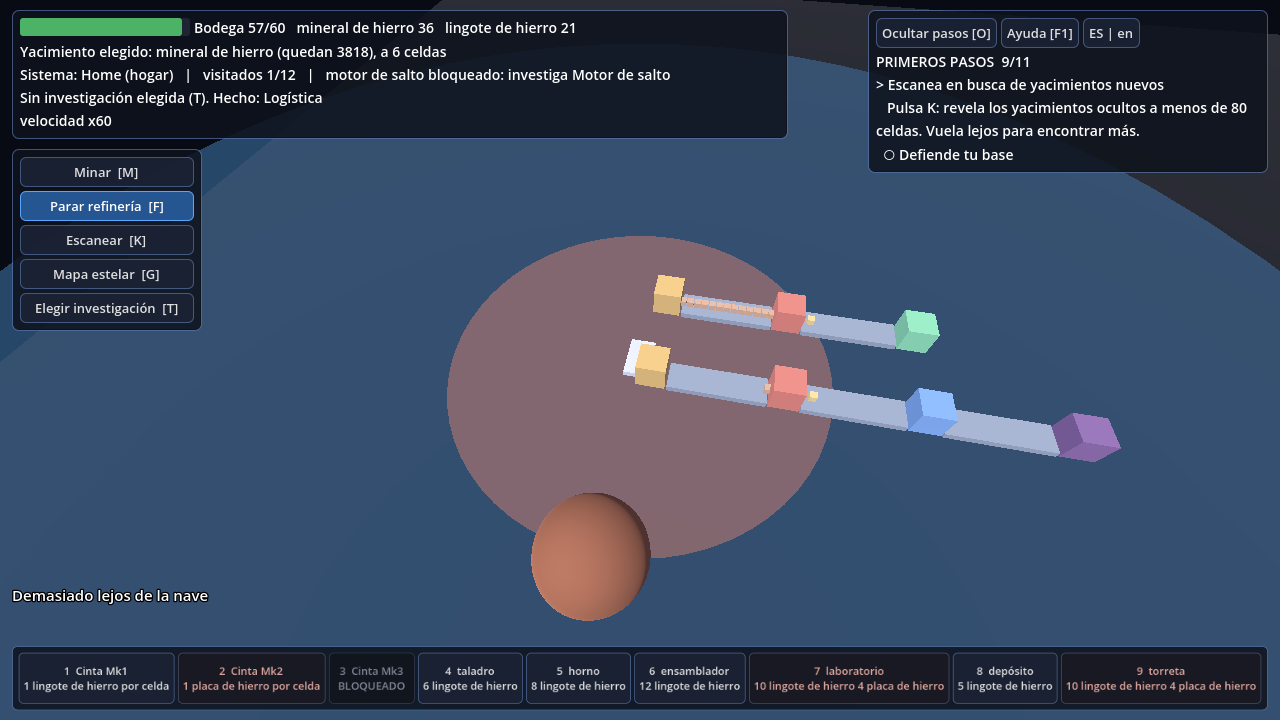
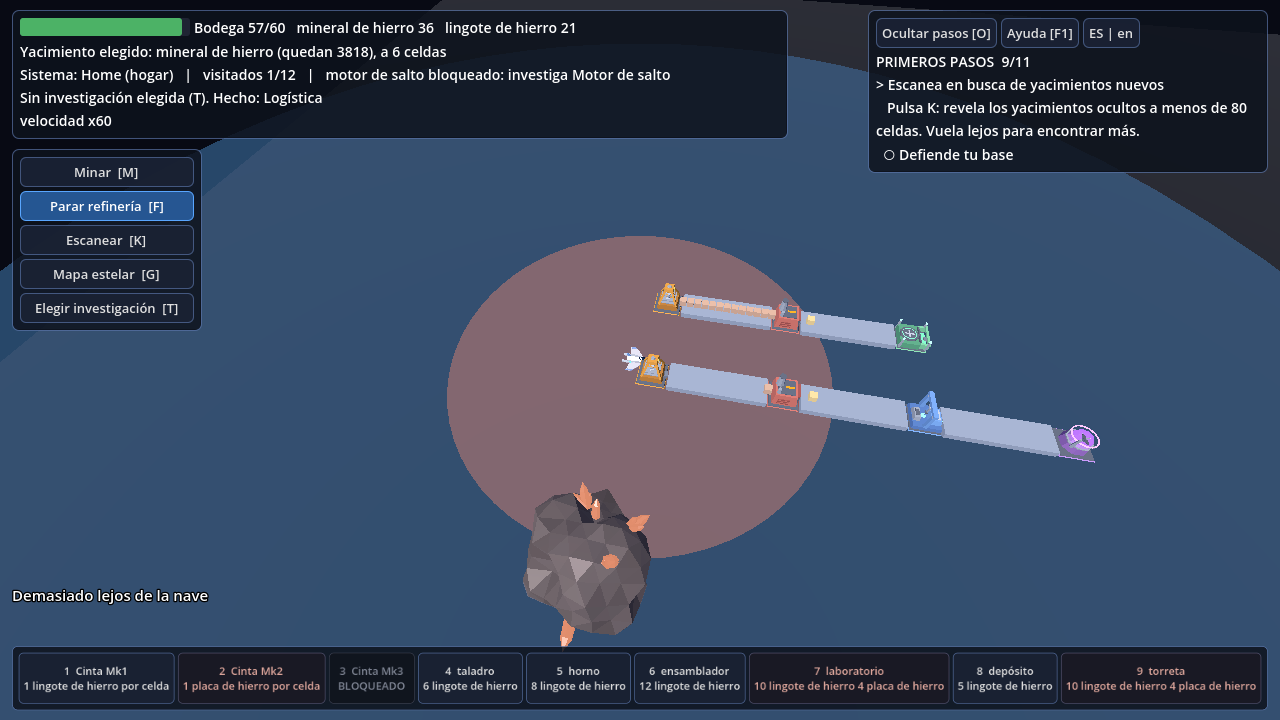
feat(game): render machines, ship, enemies and deposits with the 3D models
Replace the box MultiMeshes with per-instance model nodes with animation, damage tint, turret aiming and ship heading; add model screenshots to the polish doc.

diff --git a/game/Play.cs b/game/Play.cs
@@ -37,17 +37,18 @@ public partial class Play : Node3D
     private Camera3D _camera = null!;
     private float _yaw = 0.2f, _distance = 15f;
     private Vector3 _target = new(7f, 0f, 2f);
-    private MultiMeshInstance3D? _slabNode, _itemNode, _machineNode;
+    private MultiMeshInstance3D? _slabNode, _itemNode;
     private MultiMesh _items = null!;
-    private MultiMesh? _machines;
+    private Node3D? _machineRoot;
+    private readonly Dictionary<int, Node3D> _machineModels = new();
+    private double _animTime;
     private float[] _itemBuf = Array.Empty<float>();
-    private float[] _machineBuf = Array.Empty<float>();
     private ItemSample[] _samples = Array.Empty<ItemSample>();
     private int _sampleCount;
     private int[] _machineIds = Array.Empty<int>();
     private (float Ox, float Oy, float Oz, float Dx, float Dy, float Dz, int Length, int Speed)[] _segs = Array.Empty<(float, float, float, float, float, float, int, int)>();
     private int _structureVersion = -1;
-    private readonly List<MeshInstance3D> _depositNodes = new();
+    private readonly List<Node3D> _depositNodes = new();
     private MeshInstance3D _ghost = null!, _dragGhost = null!;
 
     // Interaction
@@ -157,22 +158,14 @@ public partial class Play : Node3D
         {
             var color = Net.DepositItem(d) == _content.ItemIndex("core:iron_ore") ? new Color(0.65f, 0.4f, 0.3f) : new Color(0.25f, 0.25f, 0.28f);
             var (dx, dy, dz) = Net.DepositPosition(d);
-            var n = new MeshInstance3D
-            {
-                Mesh = new SphereMesh { Radius = 1.5f, Height = 3f },
-                MaterialOverride = new StandardMaterial3D { AlbedoColor = color, Roughness = 0.9f },
-                Position = new Vector3(dx, dy, dz),
-            };
+            var n = Models.Deposit(color, d);
+            n.Position = new Vector3(dx, dy, dz);
             AddChild(n);
             _depositNodes.Add(n);
         }
 
         // The ship, with discs showing where it can build (big) and mine (small).
-        _ship = new MeshInstance3D
-        {
-            Mesh = new BoxMesh { Size = new Vector3(0.8f, 0.35f, 1.3f) },
-            MaterialOverride = new StandardMaterial3D { AlbedoColor = new Color(0.9f, 0.9f, 0.95f), Roughness = 0.4f },
-        };
+        _ship = Models.Ship();
         AddChild(_ship);
         _buildRange = RangeDisc(PlayerRules.BuildRangeCells, new Color(0.4f, 0.7f, 1f, 0.07f));
         _mineRange = RangeDisc(PlayerRules.MineRangeCells, new Color(1f, 0.6f, 0.2f, 0.12f));
@@ -208,6 +201,17 @@ public partial class Play : Node3D
     private void UpdateShip(float alpha, float dt)
     {
         var pos = ShipPosition(_demo ? 0f : alpha);
+        // The nose points where the ship is heading; it eases round and holds its heading while parked.
+        if (Net.HasPlayer(Player))
+        {
+            var pi = Net.GetPlayerInfo(Player);
+            if (pi.MoveX != 0 || pi.MoveZ != 0)
+                _shipYaw = Mathf.LerpAngle(_shipYaw, MathF.Atan2(-pi.MoveZ, pi.MoveX), 1f - MathF.Exp(-10f * dt));
+            bool thrusting = pi.MoveX != 0 || pi.MoveY != 0 || pi.MoveZ != 0;
+            Models.Animate(_ship, _animTime, thrusting);
+            Models.SetDamage(_ship, 0f);
+        }
+        _ship.Rotation = new Vector3(0, _shipYaw, 0);
         _ship.Position = pos;
         _ship.Visible = !(Net.HasPlayer(Player) && Net.GetPlayerInfo(Player).RespawnRemaining > 0); // hidden while being rebuilt
         _buildRange.Position = pos;
@@ -218,7 +222,9 @@ public partial class Play : Node3D
         UpdateShipControl();
     }
 
-    private MeshInstance3D _ship = null!, _buildRange = null!, _mineRange = null!;
+    private Node3D _ship = null!;
+    private MeshInstance3D _buildRange = null!, _mineRange = null!;
+    private float _shipYaw;
     private (int X, int Y, int Z) _lastIntent;
 
     private void PlaceCamera()
@@ -248,7 +254,7 @@ public partial class Play : Node3D
     {
         _slabNode?.QueueFree();
         _itemNode?.QueueFree();
-        _machineNode?.QueueFree();
+        _machineRoot?.QueueFree();
 
         _segs = new (float, float, float, float, float, float, int, int)[Net.SegmentIdLimit];
         var alive = new List<int>();
@@ -294,56 +300,52 @@ public partial class Play : Node3D
         AddChild(_itemNode);
 
         _machineIds = Enumerable.Range(0, Net.MachineIdLimit).Where(Net.IsMachineAlive).ToArray();
-        _machines = new MultiMesh
+        _machineRoot = new Node3D();
+        AddChild(_machineRoot);
+        _machineModels.Clear();
+        foreach (int id in _machineIds)
         {
-            TransformFormat = MultiMesh.TransformFormatEnum.Transform3D, UseColors = true,
-            Mesh = new BoxMesh { Size = Vector3.One, Material = VertexMaterial() }, InstanceCount = _machineIds.Length,
-        };
-        _machineBuf = new float[_machineIds.Length * FloatsPerItem];
-        _machineNode = new MultiMeshInstance3D { Multimesh = _machines };
-        AddChild(_machineNode);
+            var m = Net.GetMachineInfo(id);
+            var model = Models.Machine(_content.Machines[m.Type].Id);
+            model.Position = CellCenter(m.X, m.Y, m.Z);
+            _machineRoot.AddChild(model);
+            _machineModels[id] = model;
+        }
 
         _structureVersion = Net.StructureVersion;
     }
 
-    private Color MachineColor(MachineInfo m, bool dim)
-    {
-        var role = _content.Machines[m.Type].Role;
-        if (role == MachineRole.Turret)
-        {
-            var t = new Color(0.95f, 0.85f, 0.2f) * (m.InputItems > 0 ? 1f : 0.45f); // dim when out of ammo
-            return Damaged(m, new Color(t.R, t.G, t.B));
-        }
-        var c = role switch
-        {
-            MachineRole.Drill => new Color(0.85f, 0.55f, 0.20f),
-            MachineRole.Lab => new Color(0.65f, 0.35f, 0.85f),
-            MachineRole.Depot => new Color(0.30f, 0.75f, 0.45f),
-            _ => _content.Machines[m.Type].Id == "core:smelter" ? new Color(0.80f, 0.25f, 0.20f) : new Color(0.25f, 0.45f, 0.85f),
-        };
-        float k = dim ? 0.45f : 1f;
-        return Damaged(m, new Color(c.R * k, c.G * k, c.B * k));
-    }
-
-    /// <summary>Tints a machine red as it loses hit points.</summary>
-    private Color Damaged(MachineInfo m, Color c)
-    {
-        float max = _content.Machines[m.Type].Hp;
-        float lost = max <= 0 ? 0f : 1f - Math.Clamp(m.Hp / max, 0f, 1f);
-        return new Color(Mathf.Lerp(c.R, 1f, lost * 0.7f), Mathf.Lerp(c.G, 0.1f, lost * 0.8f), Mathf.Lerp(c.B, 0.1f, lost * 0.8f));
-    }
-
     private void UpdateMachines()
     {
-        if (_machines is null) return;
-        for (int i = 0; i < _machineIds.Length; i++)
+        if (_machineRoot is null) return;
+        var enemies = _content.Threat is null ? null : Net.Enemies();
+        foreach (int id in _machineIds)
         {
-            var m = Net.GetMachineInfo(_machineIds[i]);
-            var role = _content.Machines[m.Type].Role;
-            bool active = m.Crafting || (role == MachineRole.Lab && Net.CurrentResearch >= 0) || role == MachineRole.Depot;
-            Write(_machineBuf, i * FloatsPerItem, Vector3.One * 0.9f, CellCenter(m.X, m.Y, m.Z), MachineColor(m, !active));
+            if (!_machineModels.TryGetValue(id, out var model) || !Net.IsMachineAlive(id)) continue;
+            var m = Net.GetMachineInfo(id);
+            var def = _content.Machines[m.Type];
+            bool active = m.Crafting || (def.Role == MachineRole.Lab && Net.CurrentResearch >= 0) || def.Role == MachineRole.Depot
+                || (def.Role == MachineRole.Drill && m.Deposit >= 0);
+            if (def.Role == MachineRole.Turret) active = m.InputItems > 0; // a dark turret has no ammo
+            Models.Animate(model, _animTime, active);
+            float max = def.Hp;
+            Models.SetDamage(model, max <= 0 ? 0f : 1f - Math.Clamp(m.Hp / max, 0f, 1f));
+
+            if (def.Role == MachineRole.Turret && enemies is not null && enemies.Count > 0)
+            {
+                // Turrets track the nearest enemy; they hold their last aim when none is around.
+                var at = model.Position;
+                float best = float.MaxValue;
+                Vector3 target = at;
+                foreach (var e in enemies)
+                {
+                    var p = new Vector3(e.X, e.Y, e.Z) / CellUnits;
+                    float d2 = (p - at).LengthSquared();
+                    if (d2 < best) { best = d2; target = p; }
+                }
+                if (best < 30f * 30f) Models.Aim(model, target);
+            }
         }
-        _machines.Buffer = _machineBuf;
     }
 
     private void UpdateDeposits()
@@ -685,6 +687,7 @@ public partial class Play : Node3D
         }
         _items.VisibleInstanceCount = _sampleCount;
         _items.Buffer = _itemBuf;
+        _animTime += delta;
         UpdateMachines();
         UpdateEnemies((float)delta);
         UpdateDeposits();
@@ -792,8 +795,8 @@ public partial class Play : Node3D
     // ---- threat: enemies, shots and warnings ---------------------------------------------------------------
 
     private bool _threatDemo;
-    private MultiMesh? _enemyMesh;
-    private float[] _enemyBuf = Array.Empty<float>();
+    private Node3D? _enemyRoot;
+    private readonly List<(int Type, Node3D Node)> _enemyModels = new();
     private readonly List<(MeshInstance3D Node, float Life)> _fx = new();
     private StandardMaterial3D _fxTurret = null!, _fxShip = null!, _fxEnemy = null!;
     private long _lastWaves, _lastLost, _lastShipsLost;
@@ -804,14 +807,8 @@ public partial class Play : Node3D
     private void BuildThreatVisuals()
     {
         if (_content.Threat is null) return;
-        _enemyMesh = new MultiMesh
-        {
-            TransformFormat = MultiMesh.TransformFormatEnum.Transform3D, UseColors = true,
-            Mesh = new BoxMesh { Size = Vector3.One, Material = VertexMaterial() },
-            InstanceCount = _content.Threat.MaxEnemies, VisibleInstanceCount = 0,
-        };
-        _enemyBuf = new float[_content.Threat.MaxEnemies * FloatsPerItem];
-        AddChild(new MultiMeshInstance3D { Multimesh = _enemyMesh });
+        _enemyRoot = new Node3D();
+        AddChild(_enemyRoot);
 
         StandardMaterial3D Beam(Color c) => new() { AlbedoColor = c, ShadingMode = BaseMaterial3D.ShadingModeEnum.Unshaded };
         _fxTurret = Beam(new Color(1f, 0.9f, 0.3f));
@@ -821,17 +818,32 @@ public partial class Play : Node3D
 
     private void UpdateEnemies(float dt)
     {
-        if (_enemyMesh is null) return;
+        if (_enemyRoot is null) return;
         var list = Net.Enemies();
+        var shipPos = ShipPosition(0f);
+        // A small pool: slot i shows enemy i; a slot is rebuilt only when the enemy type in it changes.
         for (int i = 0; i < list.Count; i++)
         {
             var e = list[i];
-            var color = e.Type == 0 ? new Color(1f, 0.35f, 0.25f) : new Color(0.8f, 0.2f, 0.75f);
-            Write(_enemyBuf, i * FloatsPerItem, Vector3.One * (e.Type == 0 ? 0.5f : 0.8f),
-                new Vector3(e.X, e.Y, e.Z) / CellUnits, color);
+            while (_enemyModels.Count <= i) _enemyModels.Add((-1, null!));
+            var (type, node) = _enemyModels[i];
+            if (type != e.Type)
+            {
+                node?.QueueFree();
+                node = Models.Enemy(e.Type);
+                _enemyRoot.AddChild(node);
+                _enemyModels[i] = (e.Type, node);
+            }
+            var pos = new Vector3(e.X, e.Y, e.Z) / CellUnits;
+            var toShip = shipPos - pos;
+            if (new Vector2(toShip.X, toShip.Z).LengthSquared() > 0.01f)
+                node.Rotation = new Vector3(0, Mathf.LerpAngle(node.Rotation.Y, MathF.Atan2(-toShip.Z, toShip.X), 1f - MathF.Exp(-8f * dt)), 0);
+            node.Position = pos;
+            node.Visible = true;
+            Models.Animate(node, _animTime, true);
         }
-        _enemyMesh.VisibleInstanceCount = list.Count;
-        _enemyMesh.Buffer = _enemyBuf;
+        for (int i = list.Count; i < _enemyModels.Count; i++)
+            if (_enemyModels[i].Node is not null) _enemyModels[i].Node.Visible = false;
 
         // Beams from the shots of the last tick fade quickly.
         for (int i = _fx.Count - 1; i >= 0; i--)

diff --git a/docs/prototypes/polish-controls.md b/docs/prototypes/polish-controls.md
@@ -1,6 +1,6 @@
 # Prototype P8: loop polish and intuitive controls
 
-Status: in progress (2026-11-20). Builds on the [playable loop](playable-loop.md), [world and ship](world-and-ship.md) and [threat and combat](threat-and-combat.md).
+Status: done, awaiting a human play-test (2026-11-20). Builds on the [playable loop](playable-loop.md), [world and ship](world-and-ship.md) and [threat and combat](threat-and-combat.md).
 
 ![The new interface in Spanish, bot-played](polish-ui.png)
 
@@ -46,3 +46,17 @@ The results match those recorded before the interface rewrite, so the new layer 
 - Nobody has played this by hand yet: the controls were exercised through the bots and screenshots. Mouse feel (camera orbit speed, autopilot arrival, drag thresholds) needs a human pass.
 - The balance pass is still pending: the numbers are placeholders and the first-hour pacing has not been tuned.
 - Only 1280x720 was checked by screenshot; very small or very wide windows are untested.
+
+## 3D models
+![Model gallery: machines clean and damaged, ship, enemies and deposits](models-gallery.png)
+
+Every machine, the ship, both enemy types and the deposits now have a procedural low-poly model (`game/Models.cs`): flat-shaded meshes with vertex colours, generated from code, no art pipeline needed. Machines are one grid cell, the ship, enemies and deposits are free-flying with the nose along +X.
+
+- `Models.Animate` spins drill augers, rocks the extractor beam, slides the assembler carriage, turns the lab ring and dish, and pulses the emissive parts; idle machines freeze and dim, so a stalled line is visible at a glance.
+- `Models.SetDamage` darkens a machine towards red as it loses hit points.
+- `Models.Aim` points a turret head and barrel at the nearest enemy.
+- The ship turns to its heading; enemies face the ship.
+- `game/Gallery.tscn` shows every model, clean and damaged (`-- --focus=machines|units|ships --shot=out.png`), and `--export-models=<dir>` writes them as `.glb` (committed under `game/assets/models`, about 0.8 MB, not loaded by the game: they are for inspection and future use).
+- Triangle counts are 200 to 450 per model (the deposit about 970).
+
+Limitations: machines, enemies and the ship are individual nodes, not MultiMesh instances, so a very large factory will cost more than the old boxes (not measured yet); the build ghost is still a box; damaged colours skew pink on blue and yellow parts; the animations were checked in single frames, not as motion.
